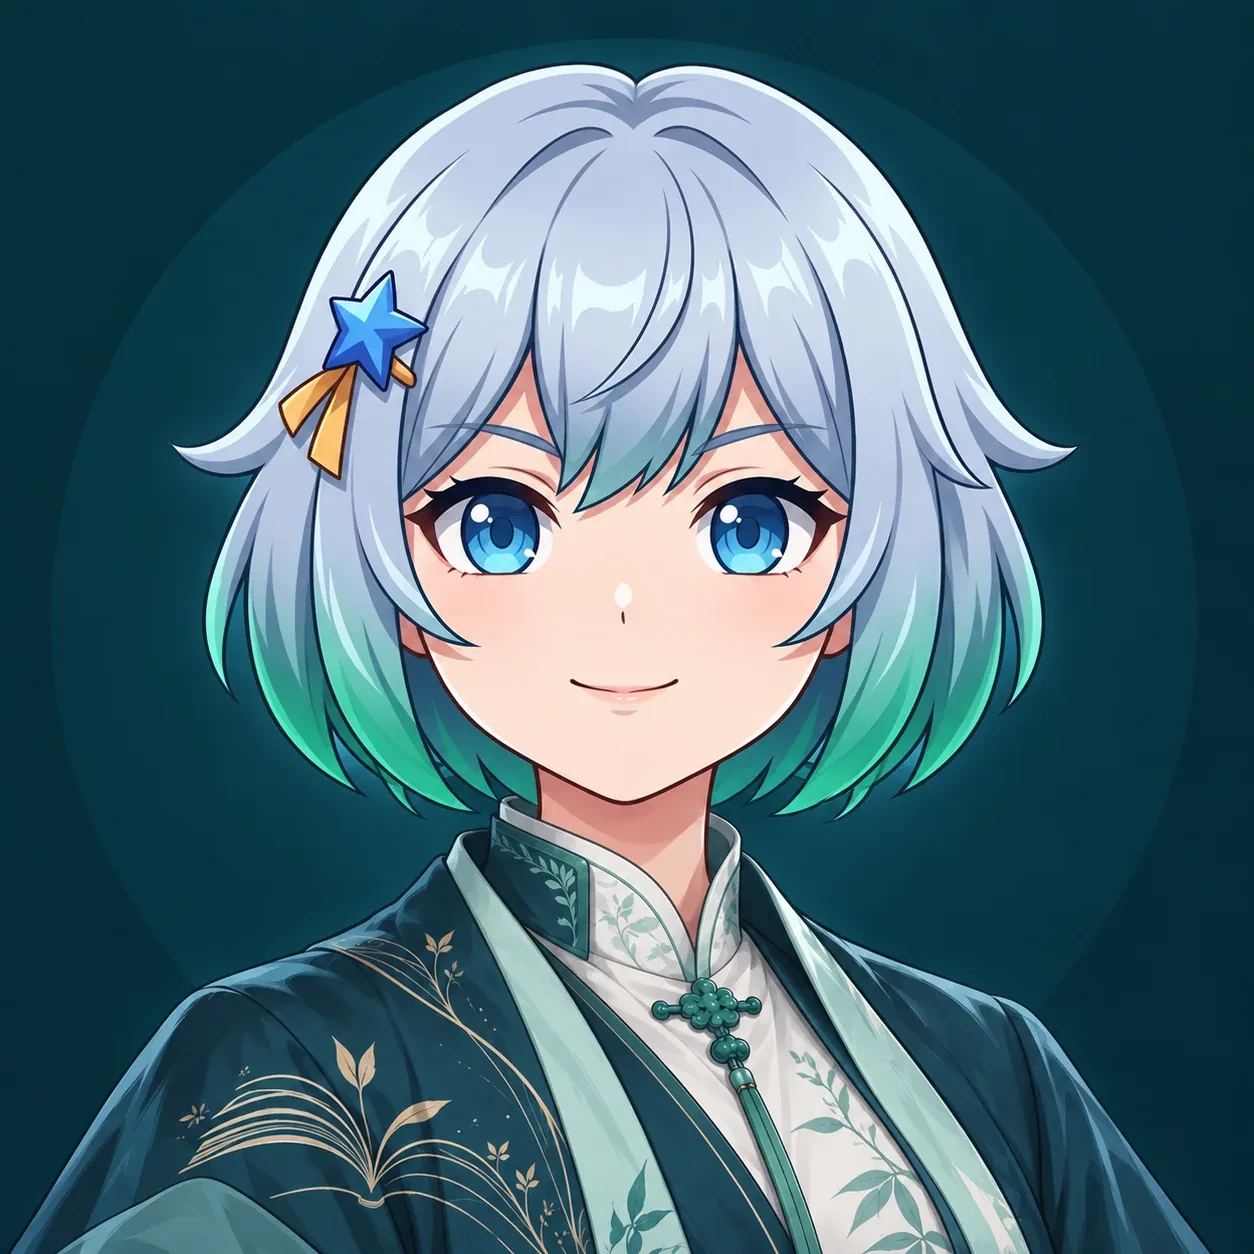
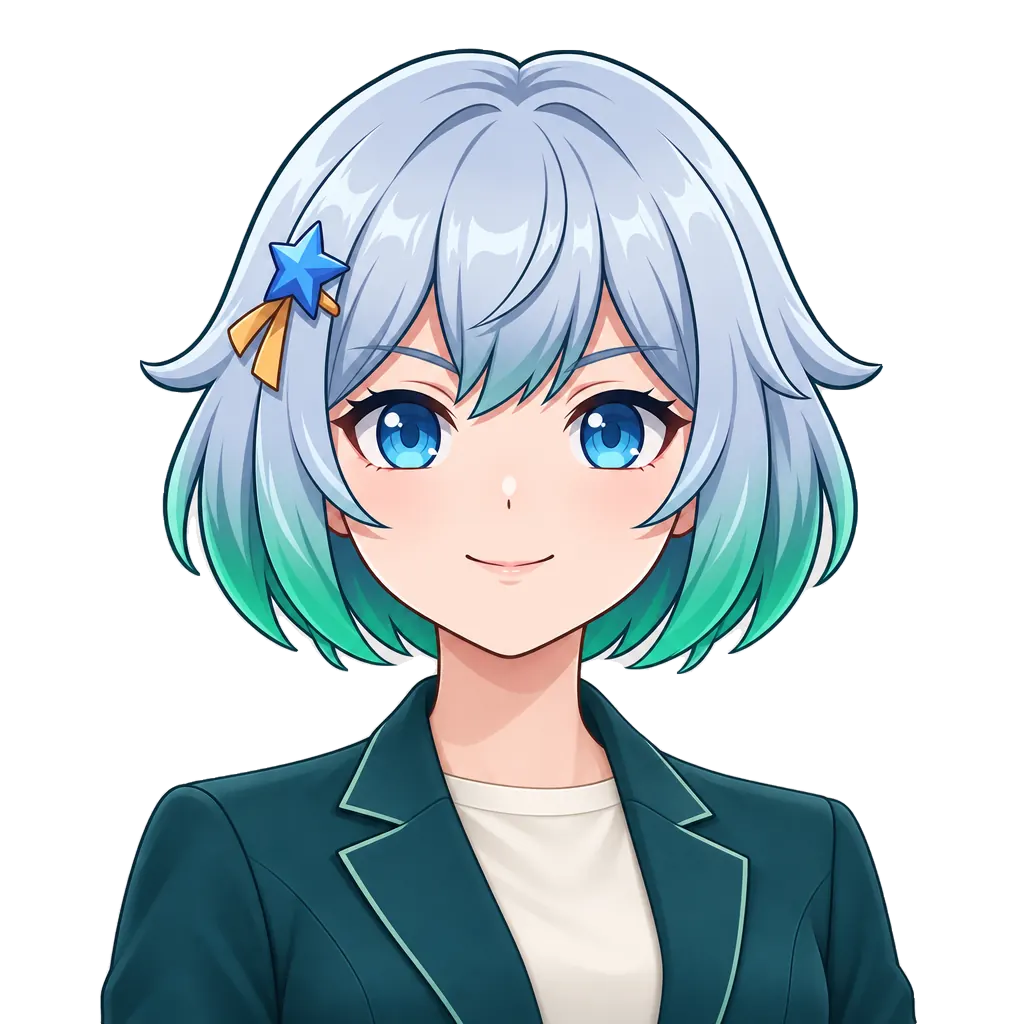
Update Joyally character references for three roles

diff --git a/skills/design/joyally-imagegen/references/comic-characters.md b/skills/design/joyally-imagegen/references/comic-characters.md
@@ -1,8 +1,8 @@
-# 漫画角色：小界与小南
+# 漫画角色：小界、小萌与小南
 
-在小界和小南出场的漫画中使用本角色表。其他漫画按用户或项目设定选角；每格按叙事需要安排出场，不要求两人始终同框。本角色表和参考图随 joyally-imagegen 分发，所有路径均相对于本文件或角色清单。
+在小界、小萌和小南出场的漫画中使用本角色表。默认角色仍为小界与小南；小萌按场景需要加入，不要求角色始终同框。本角色表和参考图随 joyally-imagegen 分发，所有路径均相对于本文件或角色清单。
 
-![小界与小南形象对照](../assets/comic-characters/comparison.webp)
+![小界、小萌与小南形象对照](../assets/comic-characters/comparison.webp)
 
 ## 身份基准
 
@@ -10,16 +10,17 @@
 
 | 角色 | 稳定辨识特征 | 参考图 |
 | --- | --- | --- |
-| 小界 · xiaojie | 银蓝短波波头、青绿发梢、蓝瞳、蓝色星形发夹、深湖青中式刺绣服装；保持既有造型 | [肖像](../assets/comic-characters/xiaojie-portrait.webp)、[全身](../assets/comic-characters/xiaojie-fullbody.webp) |
-| 小南 · xiaonan，v3 | 深靛蓝侧高马尾、青绿宽发带、琥珀金瞳与单侧耳麦；暖米白与深海青绿服装、深墨蓝长裤 | [肖像](../assets/comic-characters/xiaonan-portrait.webp)、[全身](../assets/comic-characters/xiaonan-fullbody.webp) |
+| 小界 · xiaojie，v2 | 银蓝短波波头、青绿发梢、蓝瞳、蓝色星形发夹；深湖青现代短西装、米白内搭 | [肖像](../assets/comic-characters/xiaojie-portrait.webp)、[全身](../assets/comic-characters/xiaojie-fullbody.webp)、[头像](../assets/comic-characters/xiaojie-avatar.webp) |
+| 小萌 · xiaomeng，v2 | 烟灰紫及肩短发、青绿眼睛、玉色花饰与墨绿丝带；牛仔蓝短外套 | [肖像](../assets/comic-characters/xiaomeng-portrait.webp)、[全身](../assets/comic-characters/xiaomeng-fullbody.webp)、[头像](../assets/comic-characters/xiaomeng-avatar.webp) |
+| 小南 · xiaonan，v4 | 可可棕侧高马尾、米白蝴蝶结、琥珀棕眼与单侧耳麦；米白粗花呢短外套、藏蓝长裤 | [肖像](../assets/comic-characters/xiaonan-portrait.webp)、[全身](../assets/comic-characters/xiaonan-fullbody.webp)、[头像](../assets/comic-characters/xiaonan-avatar.webp) |
 
 ## 场景中的角色使用
 
-小界可提出任务、追问机制、核对结果；小南可演示动作、观察变化、协助解释。根据文章需要调整对话分工，真实软件组件的职责仍以事实来源为准。
+小界可提出任务、追问机制、核对结果；小萌可说明反馈与自进化；小南可演示动作、观察变化、协助解释。根据文章需要调整对话分工，真实软件组件的职责仍以事实来源为准。
 
-使用 joyally-imagegen 生成场景。参考图锁定脸型、发型、瞳色、衣饰和绘画语言；每格重新生成所需动作、表情、视角和环境，不反复粘贴相同头像。保持两人的发型轮廓、瞳色和服装大色块可区分。
+使用 joyally-imagegen 生成场景。参考图锁定脸型、发型、瞳色、衣饰和绘画语言；每格重新生成所需动作、表情、视角和环境，不反复粘贴相同头像。保持三人的发型轮廓、瞳色和服装大色块可区分。
 
-仅修复既有图中的一个角色时，保护其他已批准区域。新场景允许两人重新表演；“小界不变”指保持其身份与造型，不要求将原头像像素粘到新画面。逐格核对说话人、动作、手部、关键道具和技术文字。
+仅修复既有图中的一个角色时，保护其他已批准区域。新场景允许角色重新表演；“形象不变”指保持当前参考图中的身份与造型，不要求将原头像像素粘到新画面。逐格核对说话人、动作、手部、关键道具和技术文字。
 
 ## 维护
 
